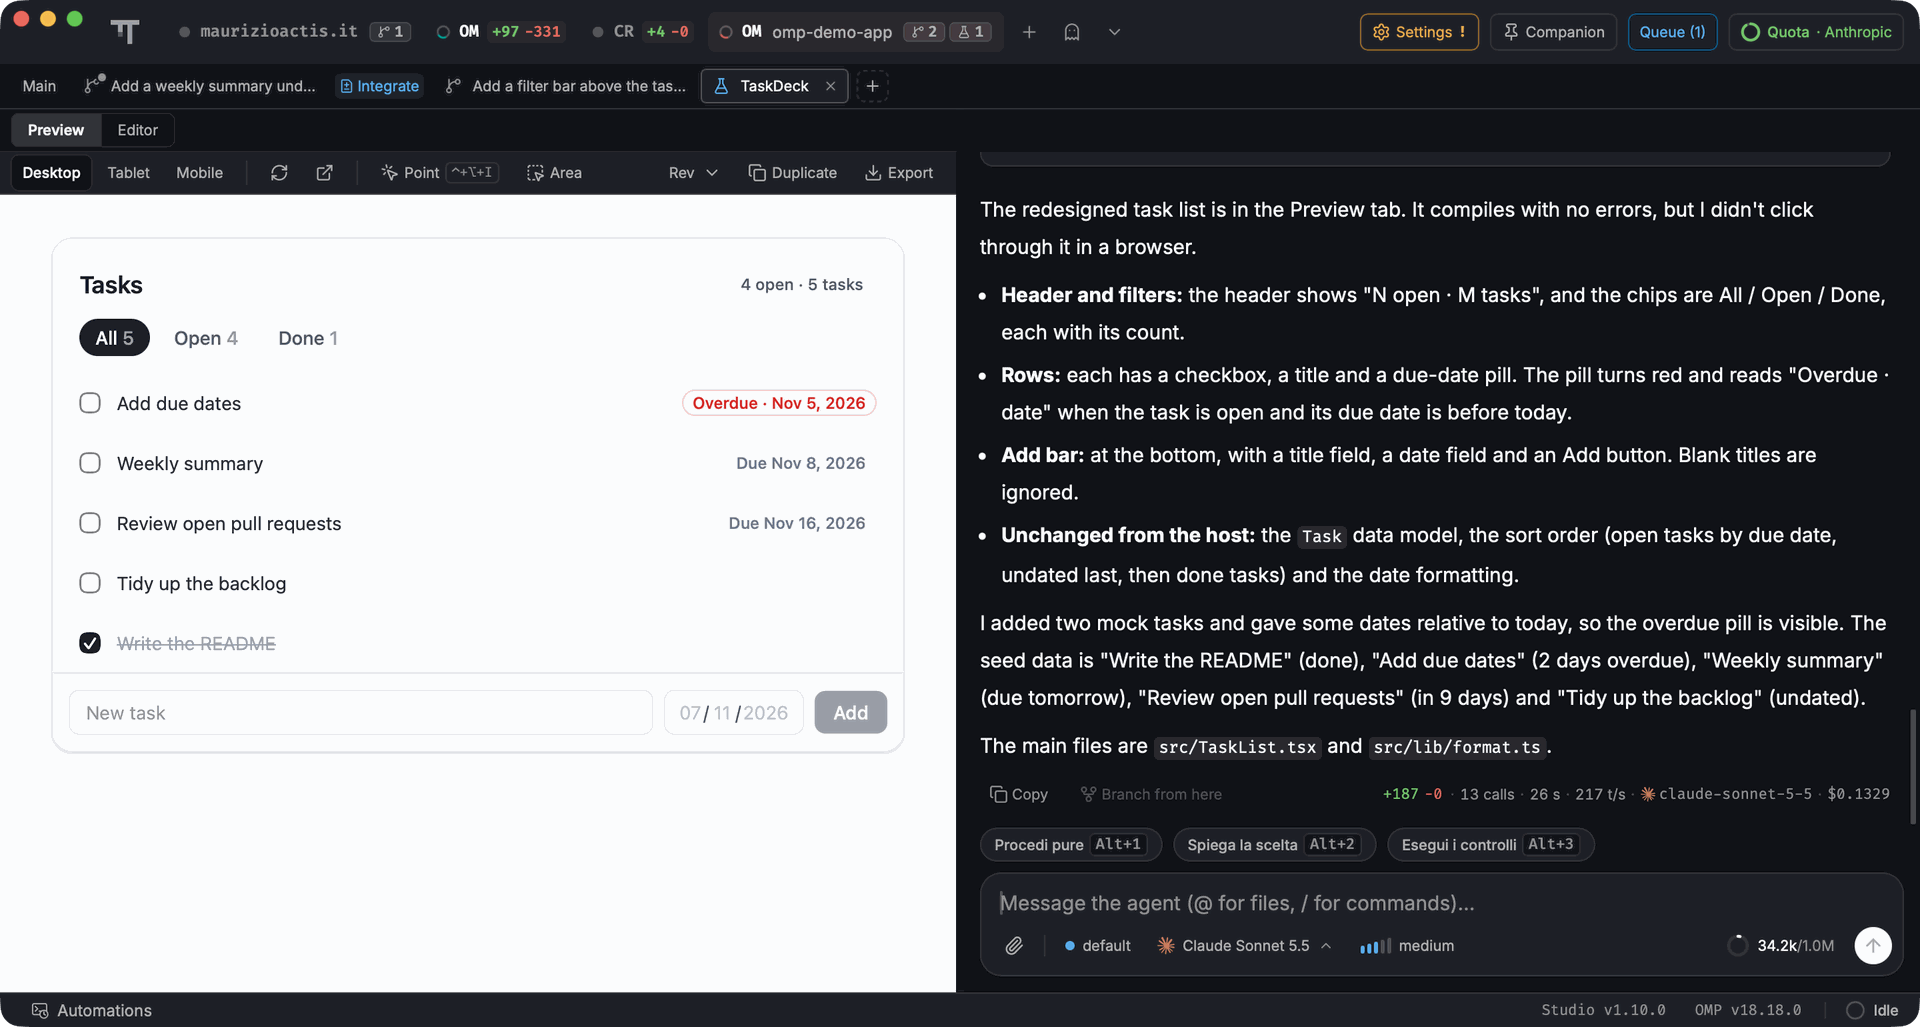
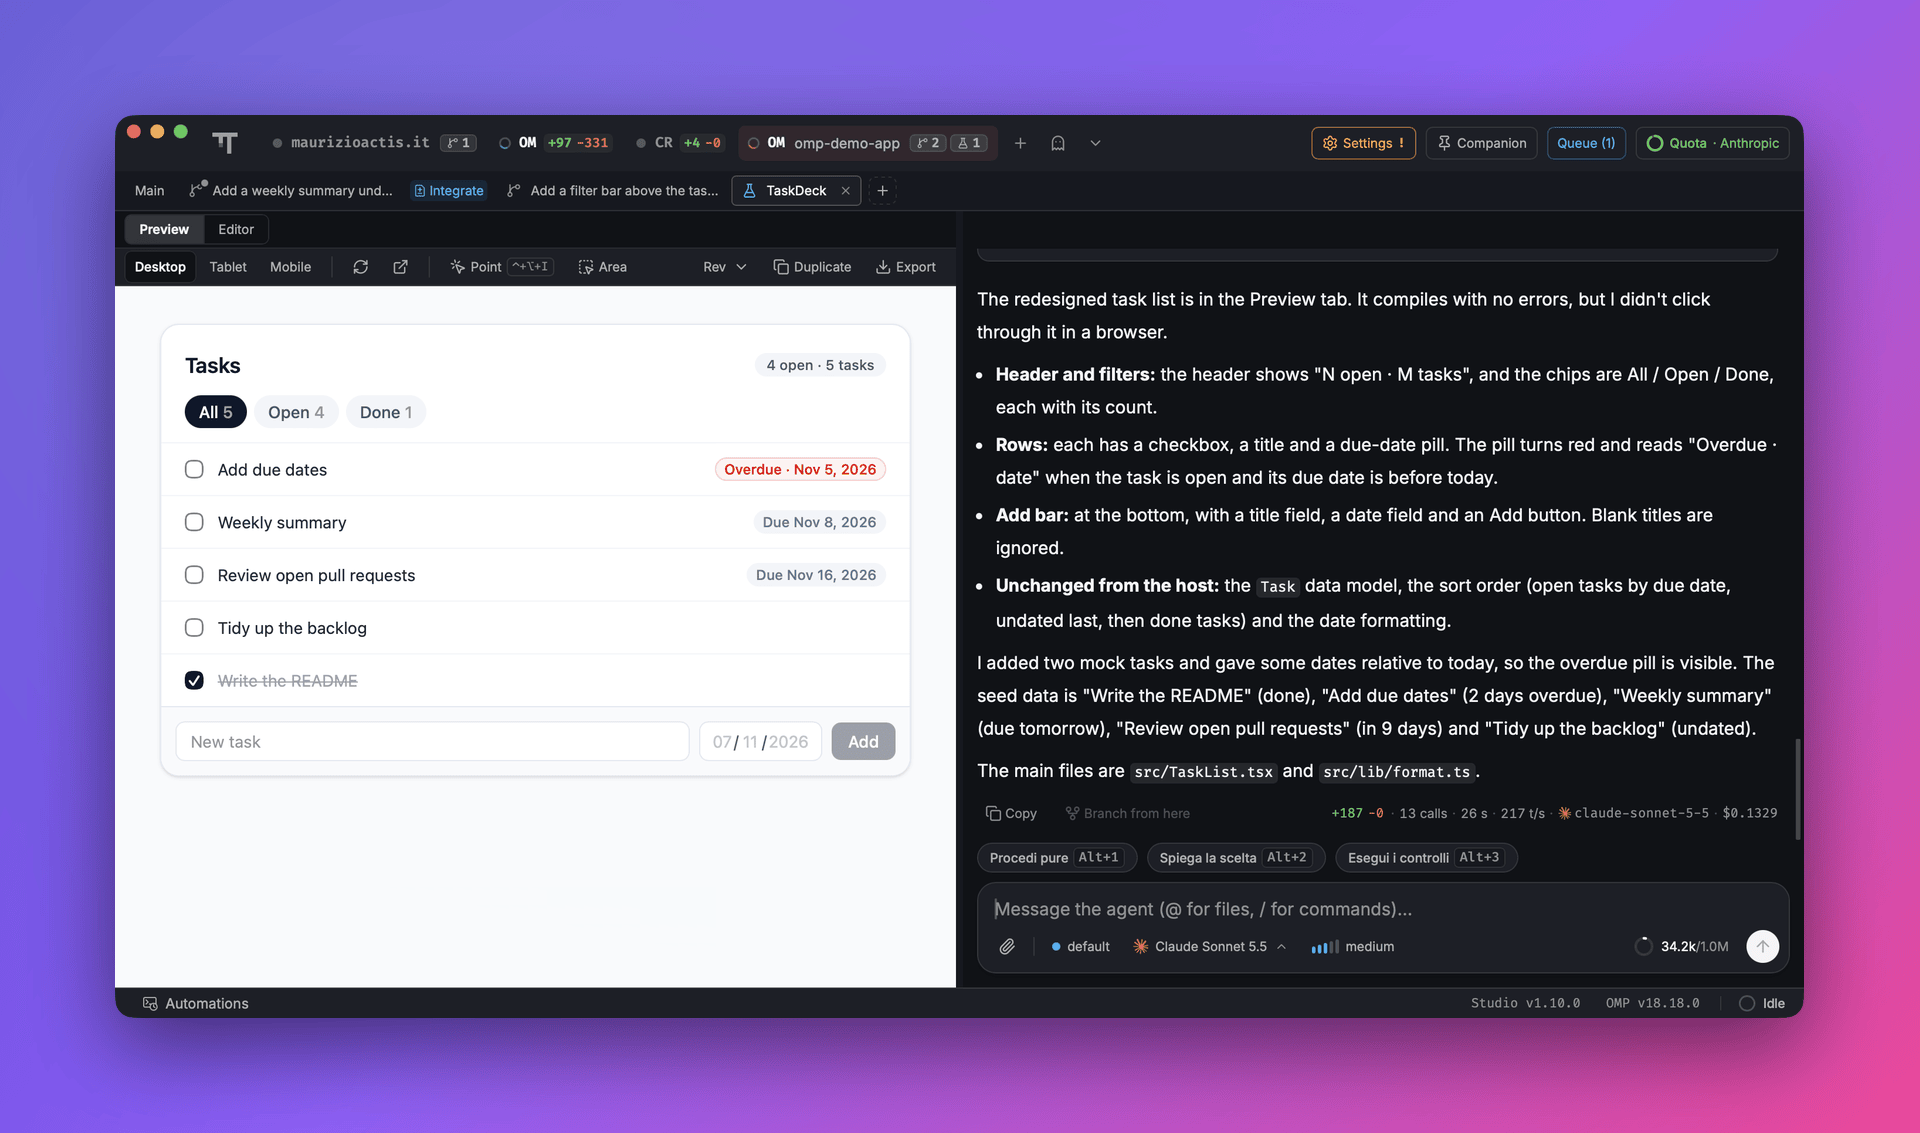
docs(readme): screenshot su sfondo a gradiente; installazione di Studio separata dalla configurazione del relay di Studio Remote

diff --git a/README.it.md b/README.it.md
@@ -47,12 +47,14 @@ Il Laboratorio è uno spazio per prototipi di interfaccia accanto al progetto. L
 
 ## Studio Remote e Companion
 
-- **Studio Remote** (spento di default) collega Studio a un relay che ospiti tu. Dal telefono o da qualunque browser vedi tutte le macchine, leggi e scrivi nella chat di ogni corsia, rispondi alle domande dell'agente, alleghi file, avvii i task in coda e controlli le quote. Non esiste un relay condiviso: vedi [`relay/`](relay/README.it.md).
+- **Studio Remote** (spento di default) collega Studio a un relay che ospiti tu. Dal telefono o da qualunque browser vedi tutte le macchine, leggi e scrivi nella chat di ogni corsia, rispondi alle domande dell'agente, alleghi file, avvii i task in coda e controlli le quote. Si configura a parte rispetto a Studio: vedi [Configurare Studio Remote](#configurare-studio-remote-facoltativo).
 - **Companion** è una piccola finestra sempre a portata (`Alt+Space`): raccoglie risposte e domande dell'agente da tutti i progetti, così rispondi o mandi un nuovo task senza riportare Studio in primo piano.
 
 <img src="assets/screenshots/screen_remote.png" alt="Studio Remote sul telefono: progetti e corsie, chat di una corsia, avvio di un nuovo lavoro" width="100%" />
 
-## Download
+## Installare OMP Studio
+
+È tutto quello che serve per usare Studio sul tuo computer.
 
 | Piattaforma | Pacchetto |
 |---|---|
@@ -62,6 +64,24 @@ Il Laboratorio è uno spazio per prototipi di interfaccia accanto al progetto. L
 
 Scarica da [Releases](https://github.com/Bodyes26/OMP-Studio/releases/latest). Studio si aggiorna da solo; nelle Impostazioni scegli tra il canale stabile e Nightly.
 Se `omp` non è installato, al primo avvio Studio propone di installarlo e configurarlo.
+
+## Configurare Studio Remote (facoltativo)
+
+Studio Remote non è incluso nell'installer. Serve un **relay**: un piccolo server che gestisci tu, a cui si collegano sia le macchine con Studio sia il telefono. Studio non apre porte sul tuo computer e non esiste un relay condiviso o predefinito.
+
+| | OMP Studio | Relay di Studio Remote |
+|---|---|---|
+| Dove gira | sul tuo computer | su un server raggiungibile da internet |
+| Come si installa | installer da Releases | Docker Compose (`ghcr.io/bodyes26/omp-studio-relay`) |
+| Cosa serve | nient'altro | Docker, un nome DNS, un reverse proxy con TLS e WebSocket |
+| Serve per | tutto | solo l'accesso da telefono o browser |
+
+1. **Avvia il relay.** Sul server copia [`relay/compose.example.yml`](relay/compose.example.yml) come `compose.yaml` e [`relay/.env.example`](relay/.env.example) come `.env`. In `.env` imposta `RELAY_ADMIN_TOKEN` (per esempio `openssl rand -hex 32`, da tenere privato) e `PROXY_NETWORK` (la rete Docker del tuo reverse proxy), poi lancia `docker compose up -d`.
+2. **Esponilo.** Nel reverse proxy instrada il tuo nome DNS verso `http://studio-relay:8787` con TLS e WebSocket. `https://<tuo-relay>/healthz` deve rispondere con la versione del relay.
+3. **Abbina il telefono.** Apri `https://<tuo-relay>` sul telefono, dai un nome al dispositivo, scegli *Usa il token di amministrazione* e incolla `RELAY_ADMIN_TOKEN`. Su iPhone, *Condividi → Aggiungi alla schermata Home* lo installa come app.
+4. **Abbina Studio.** Nella dashboard del telefono, *Impostazioni → Abbina una macchina* mostra un codice. In Studio apri *Impostazioni → Controllo remoto*, inserisci l'indirizzo del relay, un nome per la macchina e il codice, poi *Abbina*.
+
+Guida completa, esempi di proxy (Nginx Proxy Manager, Caddy), notifiche e note di sicurezza: [`relay/README.it.md`](relay/README.it.md).
 
 ## Privacy
 

diff --git a/README.md b/README.md
@@ -47,12 +47,14 @@ The Lab is a workspace for UI prototypes beside the project. The agent first exp
 
 ## Studio Remote and Companion
 
-- **Studio Remote** (off by default) pairs Studio with a relay you host yourself. From your phone or any browser you see every machine, read and write in each lane's chat, answer the agent's questions, attach files, start queued tasks and watch quotas. There is no shared relay: see [`relay/`](relay/README.md).
+- **Studio Remote** (off by default) pairs Studio with a relay you host yourself. From your phone or any browser you see every machine, read and write in each lane's chat, answer the agent's questions, attach files, start queued tasks and watch quotas. Setup is separate from Studio: see [Set up Studio Remote](#set-up-studio-remote-optional).
 - **Companion** is a small always-available window (`Alt+Space`): it collects the agent's answers and questions from every project, so you can reply or send a new task without bringing Studio to the front.
 
 <img src="assets/screenshots/screen_remote.png" alt="Studio Remote on a phone: projects and lanes, a lane's chat, starting new work" width="100%" />
 
-## Download
+## Install OMP Studio
+
+This is all you need to use Studio on your computer.
 
 | Platform | Package |
 |---|---|
@@ -62,6 +64,24 @@ The Lab is a workspace for UI prototypes beside the project. The agent first exp
 
 Download from [Releases](https://github.com/Bodyes26/OMP-Studio/releases/latest). Studio updates itself; in Settings you choose between the stable channel and Nightly.
 If `omp` is not installed, the first launch offers to install and configure it.
+
+## Set up Studio Remote (optional)
+
+Studio Remote is not part of the installer. It needs a **relay**: a small server you run yourself, which your Studio machines and your phone both connect to. Studio never opens a port on your computer, and there is no shared or default relay.
+
+| | OMP Studio | Studio Remote relay |
+|---|---|---|
+| Where it runs | your computer | a server reachable from the internet |
+| How you install it | installer from Releases | Docker Compose (`ghcr.io/bodyes26/omp-studio-relay`) |
+| What you need | nothing else | Docker, a DNS name, a reverse proxy with TLS and WebSockets |
+| Needed for | everything | only phone/browser access |
+
+1. **Start the relay.** On the server, copy [`relay/compose.example.yml`](relay/compose.example.yml) as `compose.yaml` and [`relay/.env.example`](relay/.env.example) as `.env`. In `.env` set `RELAY_ADMIN_TOKEN` (for example `openssl rand -hex 32`, keep it private) and `PROXY_NETWORK` (your reverse proxy's Docker network), then run `docker compose up -d`.
+2. **Expose it.** In your reverse proxy route your DNS name to `http://studio-relay:8787` with TLS and WebSockets. `https://<your-relay>/healthz` should answer with the relay version.
+3. **Pair your phone.** Open `https://<your-relay>` on the phone, name the device, choose *Use admin secret* and paste `RELAY_ADMIN_TOKEN`. On iPhone, *Share → Add to Home Screen* installs it as an app.
+4. **Pair Studio.** In the phone dashboard, *Settings → Pair a machine* shows a code. In Studio open *Settings → Remote Control*, enter the relay address, a machine name and the code, then *Pair*.
+
+Full guide, proxy examples (Nginx Proxy Manager, Caddy), notifications and security notes: [`relay/README.md`](relay/README.md).
 
 ## Privacy
 

diff --git a/docs/SCREENSHOTS.md b/docs/SCREENSHOTS.md
@@ -14,12 +14,19 @@ seconda istanza.
 | `screen_remote.png` | Tre schermate della PWA di Studio Remote dall'iPhone (elenco progetti con le corsie del demo, chat di una corsia, foglio «Nuovo lavoro»), affiancate su fondo trasparente. I nomi di progetti privati vanno pixelati; niente quote con email, niente impostazioni con i nomi delle macchine. |
 | `screen_lab.png` | Prototipo del Laboratorio: anteprima a sinistra, chat con il riepilogo dell'agente a destra. |
 
-Formato: PNG 1920×1027 (finestra 1440×770 punti su Retina, ridotta), quantizzata a
-256 colori, sotto i 200 KB.
+Formato: PNG largo 1920 px. La cattura della finestra (1440×770 punti su Retina, angoli
+arrotondati trasparenti) sta su uno sfondo a gradiente diagonale indaco → viola → rosa
+(`#4338CA` → `#8B5CF6` → `#EC4899`, con un bagliore chiaro in alto a sinistra), con il
+6% di margine e un'ombra sfocata sotto la finestra. Compressione con `pngquant
+--quality=75-95`: 250–350 KB. Per Remote le tre schermate del telefono hanno angoli
+arrotondati e la stessa ombra sullo stesso gradiente.
 
 La GIF nasce da una registrazione MP4 (in `ricerca/readme-media/`, fuori da git),
-montata con `ffmpeg` e convertita con `fps=8,scale=960:-1` + `palettegen`/`paletteuse`
-(128 colori, `stats_mode=diff`): circa 2 MB. Un MP4 si vedrebbe meglio, ma GitHub lo
+montata con `ffmpeg`: video a 8 fps scalato a 844 px, angoli arrotondati con
+`alphamerge`, sovrapposto allo stesso gradiente (960 px di larghezza), poi
+`palettegen` a 256 colori e `paletteuse` con dithering bayer: circa 2 MB. Le immagini
+in più (`-loop 1`) vanno limitate con `-t` alla durata del video, altrimenti ffmpeg
+non termina. Un MP4 si vedrebbe meglio, ma GitHub lo
 riproduce nel README solo come allegato `user-attachments`, che si carica dal browser
 trascinandolo in una issue: `gh` non ha un comando per farlo.
 
